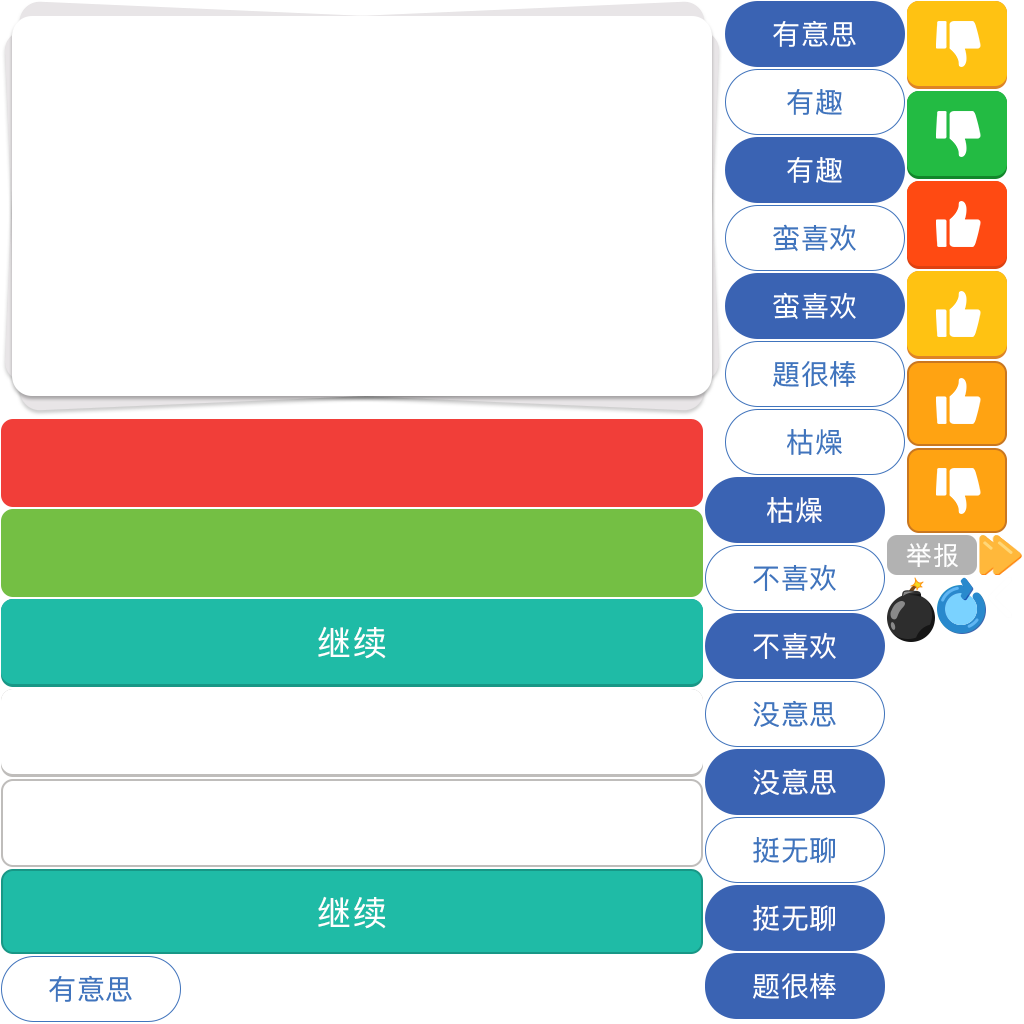
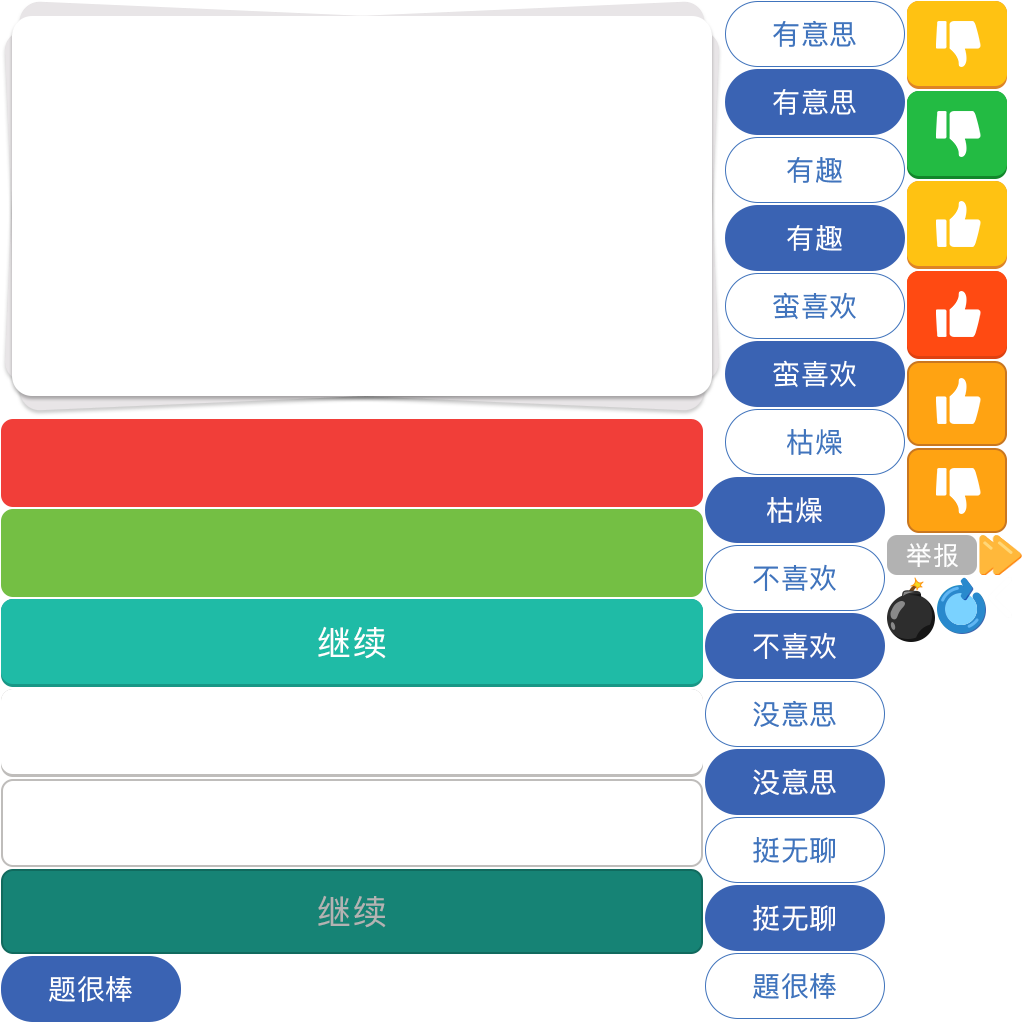
1807191336

Changed region(s): [[0.6875, 0.0, 1.0, 0.4062], [0.0, 0.8438, 0.6875, 1.0], [0.6875, 0.9062, 0.875, 1.0]]

diff --git a/js/main.min_9b712d65.js b/js/main.min_9b712d65.js
@@ -1,0 +1,2 @@
+var __reflect=this&&this.__reflect||function(e,t,n){e.__class__=t,n?n.push(t):n=[t],e.__types__=e.__types__?n.concat(e.__types__):n},__extends=this&&this.__extends||function(e,t){function n(){this.constructor=e}for(var o in t)t.hasOwnProperty(o)&&(e[o]=t[o]);n.prototype=t.prototype,e.prototype=new n},__awaiter=this&&this.__awaiter||function(e,t,n,o){return new(n||(n=Promise))(function(r,i){function s(e){try{u(o.next(e))}catch(t){i(t)}}function a(e){try{u(o["throw"](e))}catch(t){i(t)}}function u(e){e.done?r(e.value):new n(function(t){t(e.value)}).then(s,a)}u((o=o.apply(e,t||[])).next())})},__generator=this&&this.__generator||function(e,t){function n(e){return function(t){return o([e,t])}}function o(n){if(r)throw new TypeError("Generator is already executing.");for(;u;)try{if(r=1,i&&(s=i[2&n[0]?"return":n[0]?"throw":"next"])&&!(s=s.call(i,n[1])).done)return s;switch(i=0,s&&(n=[0,s.value]),n[0]){case 0:case 1:s=n;break;case 4:return u.label++,{value:n[1],done:!1};case 5:u.label++,i=n[1],n=[0];continue;case 7:n=u.ops.pop(),u.trys.pop();continue;default:if(s=u.trys,!(s=s.length>0&&s[s.length-1])&&(6===n[0]||2===n[0])){u=0;continue}if(3===n[0]&&(!s||n[1]>s[0]&&n[1]<s[3])){u.label=n[1];break}if(6===n[0]&&u.label<s[1]){u.label=s[1],s=n;break}if(s&&u.label<s[2]){u.label=s[2],u.ops.push(n);break}s[2]&&u.ops.pop(),u.trys.pop();continue}n=t.call(e,u)}catch(o){n=[6,o],i=0}finally{r=s=0}if(5&n[0])throw n[1];return{value:n[0]?n[1]:void 0,done:!0}}var r,i,s,a,u={label:0,sent:function(){if(1&s[0])throw s[1];return s[1]},trys:[],ops:[]};return a={next:n(0),"throw":n(1),"return":n(2)},"function"==typeof Symbol&&(a[Symbol.iterator]=function(){return this}),a},SQNode=function(e){function t(){return e.call(this)||this}return __extends(t,e),t}(eui.Component);__reflect(SQNode.prototype,"SQNode");var HttpActionData=function(){function e(e){this.body={},this.validate(e)}return e.prototype.validate=function(e){throw new Error("需要子类实现")},e}();__reflect(HttpActionData.prototype,"HttpActionData",["IHttpActionData"]);var SQApi=function(){function e(){}return e.prototype.fetchJson=function(e,t,n){var o=this,r=new egret.HttpRequest;r.responseType=egret.HttpResponseType.TEXT,r.open(e.url,egret.HttpMethod.GET),r.setRequestHeader("Accept","application/json"),r.setRequestHeader("Access-Control-Allow-Origin","*");for(var i=0,s=Object.keys(e.header);i<s.length;i++){var a=s[i];r.setRequestHeader(a,e.header[a])}r.send(),r.addEventListener(egret.Event.COMPLETE,function(e){var r=e.currentTarget.response;if(!r)return void n(new SQApiError({message:"HTTP GET response is null"}));var i=JSON.parse(r);i.ok?t(i.result):n(o.getResponseError(i))},this),r.addEventListener(egret.IOErrorEvent.IO_ERROR,function(e){n(new SQApiError({message:"无法连接到服务器"}))},this)},e.prototype.postReturnJson=function(e,t,n){var o=this,r=e.url+this.buildParams(e.parameters),i=new egret.HttpRequest;i.responseType=egret.HttpResponseType.TEXT,i.open(r,egret.HttpMethod.POST);for(var s=0,a=Object.keys(e.header);s<a.length;s++){var u=a[s];i.setRequestHeader(u,e.header[u])}if(i.addEventListener(egret.Event.COMPLETE,function(e){var r=e.currentTarget.response;if(!r)return void n(new SQApiError({message:"HTTP POST response is null"}));var i=JSON.parse(r);i.ok?t(i.result):n(o.getResponseError(i))},this),i.addEventListener(egret.IOErrorEvent.IO_ERROR,function(e){n(new SQApiError({message:"无法连接到服务器"}))},this),e.body){var c=this.buildBody(e.body);i.send(c)}else i.send()},e.prototype.getResponseError=function(e){if(e.errors){if(e.errors.length<=0)return new SQApiError({message:"服务器请求错误返回格式不对。"});var t=e.errors[0],n=t.message;return t.field&&(n=n+" ("+t.field+")"),new SQApiError({message:n,error_type:e.errors[0].error_type})}return new SQApiError({message:e.message,error_type:e.error_type})},e.prototype.buildParams=function(e){if(!e)return"";var t="?";for(var n in e)n&&(t=t+n+"="+e[n]+"&");return t=t.slice(0,-1)},e.prototype.buildBody=function(e){return JSON.stringify(e)},e}();__reflect(SQApi.prototype,"SQApi");var NoAuthorizedHeaderFactory=function(){function e(e){this.header={Accept:"application/json","Access-Control-Allow-Origin":"*","Content-Type":"application/json"}}return e.prototype.create=function(){return this.header},e}();__reflect(NoAuthorizedHeaderFactory.prototype,"NoAuthorizedHeaderFactory",["IHeaderFactory"]);var SQLayer=function(e){function t(){return e.call(this)||this}return __extends(t,e),t.prototype.onEnter=function(){for(var e=this.numChildren,n=0;e>n;n+=1){var o=this.getChildAt(n);o instanceof t&&o.onEnter()}},t.prototype.onExit=function(){for(var e=this.numChildren,n=0;e>n;n+=1){var o=this.getChildAt(n);o instanceof t&&o.onExit()}},t}(SQNode);__reflect(SQLayer.prototype,"SQLayer");var SQScene=function(e){function t(){return e.call(this)||this}return __extends(t,e),t.prototype.onEnter=function(){for(var e=this.numChildren,t=0;e>t;t+=1){var n=this.getChildAt(t);n instanceof SQLayer&&n.onEnter()}},t.prototype.onExit=function(){for(var e=this.numChildren,t=0;e>t;t+=1){var n=this.getChildAt(t);n instanceof SQLayer&&n.onExit()}},t}(SQNode);__reflect(SQScene.prototype,"SQScene");var approveTagDatas=[{name:"有趣",normal_image:"btn_good_1@2x_png",on_image:"btn_good_1_selected@2x_png"},{name:"有意思",normal_image:"btn_good_2@2x_png",on_image:"btn_good_2_selected@2x_png"},{name:"题很棒",normal_image:"btn_good_3@2x_png",on_image:"btn_good_3_selected@2x_png"},{name:"蛮喜欢",normal_image:"btn_good_4@2x_png",on_image:"btn_good_4_selected@2x_png"}],disapproveTagDatas=[{name:"挺无聊",normal_image:"btn_bad_1@2x_png",on_image:"btn_bad_1_selected@2x_png"},{name:"没意思",normal_image:"btn_bad_2@2x_png",on_image:"btn_bad_2_selected@2x_png"},{name:"不喜欢",normal_image:"btn_bad_3@2x_png",on_image:"btn_bad_3_selected@2x_png"},{name:"枯燥",normal_image:"btn_bad_4@2x_png",on_image:"btn_bad_4_selected@2x_png"}],QuizTagModel=function(){function e(){}return e.prototype.listApproveTags=function(){return this.approveTags=approveTagDatas.map(function(e){return new Tag(e)}),this.approveTags},e.prototype.listSelectedApproveTags=function(){return this.approveTags.filter(function(e){return e.selected?e:void 0})},e.prototype.listDisapproveTags=function(){return this.disapproveTags=disapproveTagDatas.map(function(e){return new Tag(e)}),this.disapproveTags},e.prototype.listSelectedDisapproveTags=function(){return this.disapproveTags.filter(function(e){return e.selected?e:void 0})},e}();__reflect(QuizTagModel.prototype,"QuizTagModel");var Tag=function(){function e(e){this.name=e.name,this.normalImage=e.normal_image,this.onImage=e.on_image,this.selected=!1}return e}();__reflect(Tag.prototype,"Tag");var SQEventCenter=function(e){function t(){return null!==e&&e.apply(this,arguments)||this}return __extends(t,e),t.sharedInstance=function(){return t.instance||(t.instance=new t),t.instance},t}(egret.EventDispatcher);__reflect(SQEventCenter.prototype,"SQEventCenter");var GameOverScene=function(e){function t(t){var n=e.call(this)||this;return n.skinName="GameOverSceneUI",n.model=t,n.continueButton.addEventListener(egret.TouchEvent.TOUCH_TAP,n.onPressContinueButton,n),n}return __extends(t,e),t.prototype.createChildren=function(){e.prototype.createChildren.call(this),this.setGameInformations()},t.prototype.setGameInformations=function(){this.answerCorrectInfo.setTitleText("答对题目"),this.answerCorrectInfo.setValueText(String(this.model.getAnswerCorrectAmount())),this.answerWrongInfo.setTitleText("答错题目"),this.answerWrongInfo.setValueText(String(this.model.getAnswerWrongAmount()))},t.prototype.onPressContinueButton=function(){this.goPlayingScene()},t.prototype.goPlayingScene=function(){var e=this,t=new SQLoadingLayer;t.show();var n=new QuizSceneModel;n.fetchQuestions(function(){t.hide(),SQSceneManager.sharedInstance().removeChildLayer(e),SQSceneManager.sharedInstance().replaceScene(new QuizScene(n))},function(e){t.hide()})},t}(SQScene);__reflect(GameOverScene.prototype,"GameOverScene");var GameOverSceneModel=function(){function e(e){this.answerCorrectAmount=e.answer_correct_amount,this.answerWrongAmount=e.answer_wrong_amount}return e.prototype.getAnswerCorrectAmount=function(){return this.answerCorrectAmount},e.prototype.getAnswerWrongAmount=function(){return this.answerWrongAmount},e}();__reflect(GameOverSceneModel.prototype,"GameOverSceneModel");var GameOverInfoItem=function(e){function t(){var t=e.call(this)||this;return t.skinName="GameOverInfoItemUI",t}return __extends(t,e),t.prototype.setTitleText=function(e){this.titleLabel.text=e},t.prototype.setValueText=function(e){this.valueLabel.text=e},t}(SQLayer);__reflect(GameOverInfoItem.prototype,"GameOverInfoItem");var AssetAdapter=function(){function e(){}return e.prototype.getAsset=function(e,t,n){function o(o){t.call(n,o,e)}if(RES.hasRes(e)){var r=RES.getRes(e);r?o(r):RES.getResAsync(e,o,this)}else RES.getResByUrl(e,o,this,RES.ResourceItem.TYPE_IMAGE)},e}();__reflect(AssetAdapter.prototype,"AssetAdapter",["eui.IAssetAdapter"]);var Main=function(e){function t(){var t=e.call(this)||this;return t.addEventListener(egret.Event.ADDED_TO_STAGE,t.onAddToStage,t),t}return __extends(t,e),t.prototype.onAddToStage=function(e){egret.lifecycle.addLifecycleListener(function(e){e.onUpdate=function(){}}),egret.lifecycle.onPause=function(){egret.ticker.pause()},egret.lifecycle.onResume=function(){egret.ticker.resume()};var t=new AssetAdapter;egret.registerImplementation("eui.IAssetAdapter",t),egret.registerImplementation("eui.IThemeAdapter",new ThemeAdapter),this.runGame()["catch"](function(e){console.log(e)})},t.prototype.runGame=function(){return __awaiter(this,void 0,void 0,function(){var e;return __generator(this,function(t){switch(t.label){case 0:return[4,this.loadPreloadResourceGroup()];case 1:return t.sent(),this.createLaunchGameScene(),SQSceneManager.sharedInstance().addRootStage(this),SQSceneManager.sharedInstance().pushScene(new LaunchGameScene),[4,platform.login()];case 2:return t.sent(),[4,platform.getUserInfo()];case 3:return e=t.sent(),console.log(e),[2]}})})},t.prototype.loadPreloadResourceGroup=function(){return __awaiter(this,void 0,void 0,function(){var e,t;return __generator(this,function(n){switch(n.label){case 0:return n.trys.push([0,4,,5]),e=new LoadingUI,this.stage.addChild(e),[4,RES.loadConfig("resource/default.res.json","resource/")];case 1:return n.sent(),[4,this.loadTheme()];case 2:return n.sent(),[4,RES.loadGroup("preload",0,e)];case 3:return n.sent(),this.stage.removeChild(e),[3,5];case 4:return t=n.sent(),console.error(t),[3,5];case 5:return[2]}})})},t.prototype.loadTheme=function(){var e=this;return new Promise(function(t,n){var o=new eui.Theme("resource/default.thm.json",e.stage);o.addEventListener(eui.UIEvent.COMPLETE,function(){t()},e)})},t.prototype.createLaunchGameScene=function(){var e=this.createBitmapByName("bg_tu@2x_jpg");this.addChild(e);var t=this.stage.stageWidth,n=this.stage.stageHeight;e.width=t,e.height=n},t.prototype.createBitmapByName=function(e){var t=new egret.Bitmap,n=RES.getRes(e);return t.texture=n,t},t}(egret.DisplayObjectContainer);__reflect(Main.prototype,"Main");var SQApiConfig=function(){function e(){}return e.Host="https://api-staging.shafayouxi.org",e.V1="v1",e}();__reflect(SQApiConfig.prototype,"SQApiConfig");var SQApiErrorType;!function(e){e[e.None=0]="None",e[e.UserNotFound=1]="UserNotFound"}(SQApiErrorType||(SQApiErrorType={}));var SQApiError=function(e){function t(t){var n=e.call(this)||this;return n.message=t.message,"user_not_found"===t.error_type?n.type=SQApiErrorType.UserNotFound:n.type=SQApiErrorType.None,n}return __extends(t,e),t}(Error);__reflect(SQApiError.prototype,"SQApiError");var HttpPost=function(e){function t(){return null!==e&&e.apply(this,arguments)||this}return __extends(t,e),t.prototype.execute=function(e,t,n){var o={url:e.url,header:e.headerFactory.create(),body:e.body};this.postReturnJson(o,function(e){t(e)},function(e){n(e)})},t}(SQApi);__reflect(HttpPost.prototype,"HttpPost",["IHttpAction"]);var AuthorizedHeaderFactory=function(e){function t(t){var n=e.call(this,t)||this;return t.access_token&&(n.header.Authorization="Bearer "+t.access_token),n}return __extends(t,e),t}(NoAuthorizedHeaderFactory);__reflect(AuthorizedHeaderFactory.prototype,"AuthorizedHeaderFactory");var DebugPlatform=function(){function e(){}return e.prototype.getUserInfo=function(){return __awaiter(this,void 0,void 0,function(){return __generator(this,function(e){return[2,{nickName:"username"}]})})},e.prototype.login=function(){return __awaiter(this,void 0,void 0,function(){return __generator(this,function(e){return[2]})})},e}();__reflect(DebugPlatform.prototype,"DebugPlatform",["Platform"]),window.platform||(window.platform=new DebugPlatform);var LaunchGameScene=function(e){function t(){var t=e.call(this)||this;return t.skinName="LaunchGameSceneUI",t}return __extends(t,e),t.prototype.createChildren=function(){e.prototype.createChildren.call(this),this.addLoadGroupEvent(),RES.loadGroup("answer")},t.prototype.addLoadGroupEvent=function(){RES.addEventListener(RES.ResourceEvent.GROUP_COMPLETE,this.onGroupLoadComplete,this),RES.addEventListener(RES.ResourceEvent.GROUP_LOAD_ERROR,this.onGroupLoadError,this),RES.addEventListener(RES.ResourceEvent.GROUP_PROGRESS,this.onGroupProgress,this),RES.addEventListener(RES.ResourceEvent.ITEM_LOAD_ERROR,this.onItemLoadError,this)},t.prototype.removeLoadGroupEvent=function(){RES.removeEventListener(RES.ResourceEvent.GROUP_COMPLETE,this.onGroupLoadComplete,this),RES.removeEventListener(RES.ResourceEvent.GROUP_LOAD_ERROR,this.onGroupLoadError,this),RES.removeEventListener(RES.ResourceEvent.GROUP_PROGRESS,this.onGroupProgress,this),RES.removeEventListener(RES.ResourceEvent.ITEM_LOAD_ERROR,this.onItemLoadError,this)},t.prototype.onGroupLoadComplete=function(e){this.removeLoadGroupEvent(),this.goQuizScene()},t.prototype.goQuizScene=function(){var e=this,t=new QuizSceneModel;this.descriptionLabel.text="正在请求数据...",t.fetchQuestions(function(){SQSceneManager.sharedInstance().replaceScene(new QuizScene(t))},function(){e.goQuizScene()})},t.prototype.onGroupLoadError=function(e){console.log("load resource error",e)},t.prototype.onGroupProgress=function(e){this.descriptionLabel.text="资源加载中..."+Math.floor(e.itemsLoaded/e.itemsTotal*100)+"%"},t.prototype.onItemLoadError=function(e){throw new Error(e.resItem.url+"加载失败")},t}(SQScene);__reflect(LaunchGameScene.prototype,"LaunchGameScene");var QuizScene=function(e){function t(t){var n=e.call(this)||this;return n.skinName="QuizSceneUI",n.model=t,n}return __extends(t,e),t.prototype.createChildren=function(){e.prototype.createChildren.call(this),this.showQuestion(this.model.getQuestionAtIndex(this.model.currentQuestionAmount)),this.bottomToolbar.setItems(this.model.listBottomToolbarItems()),this.setupCallbacks()},t.prototype.setupCallbacks=function(){this.navigationBar.pressLeftButtonHandler=this.quitGame.bind(this),this.dashboard.pressAnswerHandler=this.chooseAnswer.bind(this),this.quizFinishedLayer.pressApproveButtonHandler=this.approveQuiz.bind(this),this.quizFinishedLayer.pressDisapproveButtonHandler=this.disapproveQuiz.bind(this),this.quizFinishedLayer.postQuestionTagsHandler=this.postQuestionTags.bind(this),this.quizFinishedLayer.pressContinueHandler=this.next.bind(this),this.questionLayer.timesUpHandler=this.timesUp.bind(this)},t.prototype.fetchQuestions=function(){var e=this,t=new SQLoadingLayer;t.show(),this.model.fetchQuestions(function(n){t.hide(),e.showQuestion(e.model.getQuestionAtIndex(e.model.currentQuestionAmount))},function(e){t.hide()})},t.prototype.showQuestion=function(e){this.questionLayer.setCategory(e.category),this.questionLayer.setQuestionText(e.text),this.questionLayer.startQuizTimer(20),this.questionLayer.setProgressLabel(this.model.currentQuestionAmount+1+"/"+this.model.totalQuestionAmount),this.dashboard.setAnswers(e.answers),this.model.countQuestionById(e.id,function(){console.log("问题计数成功")},function(e){console.log("问题计数失败"+e.message)})},t.prototype.timesUp=function(){this.dashboard.disableAllButtons(),this.questionLayer.showAnswerTimesUpAnimation(),this.postAnswer("",100)},t.prototype.chooseAnswer=function(e){var t=this;this.questionLayer.stopQuizTimer(function(n){var o=new ButtonStateEvent(ButtonStateEvent.ANSWER_CORRECT);if(SQEventCenter.sharedInstance().dispatchEvent(o),t.model.setCurrentAnswer(e),e.isCorrect)t.questionLayer.showAnswerCorrectAnimation(),t.model.addAnswerCorrectAmount();else{var r=new ButtonStateEvent(ButtonStateEvent.ANSWER_WRONG);SQEventCenter.sharedInstance().dispatchEvent(r),t.questionLayer.showAnswerWrongAnimation(),t.model.addAnswerWrongAmount()}t.postAnswer(e.name,n)})},t.prototype.postAnswer=function(e,t){var n=this,o=this.model.getQuestionAtIndex(this.model.currentQuestionAmount),r={question_id:o.id,answer_text:e,duration_seconds:t};this.model.postAnswer(r,function(){n.showQuizFinishedLayer(o)},function(o){n.postAnswer(e,t),console.log("发送回答失败, 继续尝试")})},t.prototype.showQuizFinishedLayer=function(e){this.quizFinishedLayer.setQuestion(e),this.dashboardTweenGroup.play(0)},t.prototype.quitGame=function(){console.log("quitGame........")},t.prototype.approveQuiz=function(e){var t={action:"up",question_id:e.id,question_token:e.token};this.model.voteQuestionById(t,function(){},function(e){})},t.prototype.disapproveQuiz=function(e){var t={action:"down",question_id:e.id,question_token:e.token};this.model.voteQuestionById(t,function(){},function(e){})},t.prototype.postQuestionTags=function(e,t){var n={question_id:e.id,tag:t[0].name};this.model.postQuestionTags(n,function(e){console.log("postQuestionTags success #####",e)},function(e){console.log("postQuestionTags failed #####",e.message)})},t.prototype.next=function(){if(!this.model.getCurrentAnswer())return void SQSceneManager.sharedInstance().addChildLayer(new GameOverScene(this.createGameOverModel()));if(!this.model.getCurrentAnswer().isCorrect)return void SQSceneManager.sharedInstance().addChildLayer(new GameOverScene(this.createGameOverModel()));this.model.currentQuestionAmount+=1;var e=new ButtonStateEvent(ButtonStateEvent.ANSWER_RESET);return SQEventCenter.sharedInstance().dispatchEvent(e),this.dashboardGroup.x=0,this.model.currentQuestionAmount===this.model.totalQuestionAmount?(this.model.reset(),void this.fetchQuestions()):void this.showQuestion(this.model.getQuestionAtIndex(this.model.currentQuestionAmount))},t.prototype.createGameOverModel=function(){var e={answer_correct_amount:this.model.getAnswerCorrectAmount(),answer_wrong_amount:this.model.getAnswerWrongAmount()};return new GameOverSceneModel(e)},t}(SQScene);__reflect(QuizScene.prototype,"QuizScene");var Answer=function(){function e(e){this.name=e.name,this.isCorrect=e.correct,this.index=e.index}return e}();__reflect(Answer.prototype,"Answer");var Question=function(){function e(e){this.category=e.category,this.id=e.id,this.language=e.language,this.text=e.text,this.token=e.question_token,this.answers=this.createAnswers(e.options)}return e.prototype.createAnswers=function(e){return e.map(function(e,t){var n=e;return n.index=t,new Answer(n)})},e}();__reflect(Question.prototype,"Question");var QuizSceneModel=function(){function e(){this.currentQuestionAmount=0,this.httpPost=new HttpPost,this.answerCorrectAmount=0,this.answerWrongAmount=0}return e.prototype.setCurrentAnswer=function(e){this.currentAnswer=e},e.prototype.getCurrentAnswer=function(){return this.currentAnswer},e.prototype.addAnswerCorrectAmount=function(){this.answerCorrectAmount+=1},e.prototype.getAnswerCorrectAmount=function(){return this.answerCorrectAmount},e.prototype.addAnswerWrongAmount=function(){this.answerWrongAmount+=1},e.prototype.getAnswerWrongAmount=function(){return this.answerWrongAmount},e.prototype.reset=function(){this.currentQuestionAmount=0,this.questions=[]},e.prototype.getQuestionAtIndex=function(e){return this.questions.length<=e?void 0:this.questions[e]},e.prototype.fetchQuestions=function(e,t){var n=this,o=new FetchQuestionsData({access_token:UserModel.sharedInstance().attribute.token,user_id:UserModel.sharedInstance().attribute.id});this.httpPost.execute(o,function(t){n.questions=n.createQuestions(t.questions),n.totalQuestionAmount=n.questions.length,e(n.questions)},function(e){t(e)})},e.prototype.postAnswer=function(e,t,n){var o=new PostAnswerData({user_id:UserModel.sharedInstance().attribute.id,quiz_token:UserModel.sharedInstance().attribute.quizToken,question_id:e.question_id,duration_seconds:e.duration_seconds,answer:e.answer_text});this.httpPost.execute(o,function(e){t()},function(e){n(e)})},e.prototype.countQuestionById=function(e,t,n){var o=new CountQuestionData({user_id:UserModel.sharedInstance().attribute.id,question_id:e});this.httpPost.execute(o,function(e){t()},function(e){n(e)})},e.prototype.voteQuestionById=function(e,t,n){var o=new VoteQuestionData({user_id:UserModel.sharedInstance().attribute.id,token:e.question_token,question_id:e.question_id,action:e.action});this.httpPost.execute(o,function(e){t(e)},function(e){n(e)})},e.prototype.postQuestionTags=function(e,t,n){var o=new PostTagData({user_id:UserModel.sharedInstance().attribute.id,question_id:e.question_id,tag:e.tag});this.httpPost.execute(o,function(e){t(e)},function(e){n(e)})},e.prototype.listBottomToolbarItems=function(){return[{icon:"img_bomb@2x_png",title:"炸弹",description:"去掉两个错误答案"},{icon:"img_opportunity@2x_png",title:"机会",description:"多一次机会"},{icon:"img_jump_over@2x_png",title:"跳过",description:"跳过这一题"}]},e.prototype.createQuestions=function(e){return e.map(function(e){return new Question(e)})},e}();__reflect(QuizSceneModel.prototype,"QuizSceneModel");var LoadingUI=function(e){function t(){var t=e.call(this)||this;return t.createView(),t}return __extends(t,e),t.prototype.createView=function(){this.textField=new egret.TextField,this.addChild(this.textField),this.textField.y=300,this.textField.width=480,this.textField.height=100,this.textField.textAlign="center"},t.prototype.onProgress=function(e,t){this.textField.text="Loading..."+e+"/"+t},t}(egret.Sprite);__reflect(LoadingUI.prototype,"LoadingUI",["RES.PromiseTaskReporter"]);var CountQuestionData=function(e){function t(t){var n=e.call(this,t)||this;return n.url=SQApiConfig.Host+"/"+SQApiConfig.V1+"/count/"+t.question_id,n.headerFactory=new NoAuthorizedHeaderFactory({}),n.body.user_id=t.user_id,n}return __extends(t,e),t.prototype.validate=function(e){return this.isLegal=!1,e.user_id?void(this.isLegal=!0):void(this.validateMessage="没有找到用户id")},t}(HttpActionData);__reflect(CountQuestionData.prototype,"CountQuestionData");var FetchQuestionsData=function(e){function t(t){var n=e.call(this,t)||this;return n.url=SQApiConfig.Host+"/"+SQApiConfig.V1+"/quiz/game/marathon",n.headerFactory=new AuthorizedHeaderFactory({access_token:t.access_token}),n.body.user_id=t.user_id,n}return __extends(t,e),t.prototype.validate=function(e){return this.isLegal=!1,e.access_token?e.user_id?void(this.isLegal=!0):void(this.validateMessage="请提供用户id"):void(this.validateMessage="请传入access_token")},t}(HttpActionData);__reflect(FetchQuestionsData.prototype,"FetchQuestionsData");var PostAnswerData=function(e){function t(t){var n=e.call(this,t)||this;return n.url=SQApiConfig.Host+"/"+SQApiConfig.V1+"/quiz/answer",n.headerFactory=new AuthorizedHeaderFactory({access_token:t.access_token}),n.body.user_id=t.user_id,n.body.question_id=t.question_id,n.body.quiz_token=t.quiz_token,n.body.duration_seconds=t.duration_seconds,n.body.answer=t.answer,n}return __extends(t,e),t.prototype.validate=function(e){this.isLegal=!0},t}(HttpActionData);__reflect(PostAnswerData.prototype,"PostAnswerData");var PostTagData=function(e){function t(t){var n=e.call(this,t)||this;return n.url=SQApiConfig.Host+"/"+SQApiConfig.V1+"/tag/"+t.question_id,n.headerFactory=new AuthorizedHeaderFactory({access_token:t.access_token}),n.body.user_id=t.user_id,n.body.tag=t.tag,n}return __extends(t,e),t.prototype.validate=function(e){return this.isLegal=!1,e.user_id?e.tag?void(this.isLegal=!0):void(this.validateMessage="请提供tag"):void(this.validateMessage="请提供用户的id")},t}(HttpActionData);__reflect(PostTagData.prototype,"PostTagData");var VoteQuestionData=function(e){function t(t){var n=e.call(this,t)||this;return n.url=SQApiConfig.Host+"/"+SQApiConfig.V1+"/vote/"+t.question_id,n.headerFactory=new NoAuthorizedHeaderFactory({}),n.body.user_id=t.user_id,n.body.action=t.action,n.body.token=t.token,console.log(t),n}return __extends(t,e),t.prototype.validate=function(e){return this.isLegal=!0,e.user_id?e.action?e.token?e.question_id?void(this.validateMessage="请提供问题id"):void(this.isLegal=!0):void(this.validateMessage="请提供有效问题token"):void(this.validateMessage="没有提供投票行为"):void(this.validateMessage="没有可用用户id")},t}(HttpActionData);__reflect(VoteQuestionData.prototype,"VoteQuestionData");var QuestionLayer=function(e){function t(){var t=e.call(this)||this;return t.skinName="QuestionLayerUI",t}return __extends(t,e),t.prototype.showAnswerTimesUpAnimation=function(){var e=this,t=AnimationFactory.create("answer_times_up_animation_json","answer_times_up_animation_png");this.animationContainer.addChild(t),this.animationContainer.layout=this.createAnimationContainerLayout(),t.gotoAndPlay("play",0),t.addEventListener(egret.MovieClipEvent.COMPLETE,function(){e.animationContainer.removeChild(t)},this)},t.prototype.showAnswerCorrectAnimation=function(){var e=this,t=AnimationFactory.create("answer_correct_animation_json","answer_correct_animation_png");this.animationContainer.addChild(t),this.animationContainer.layout=this.createAnimationContainerLayout(),t.gotoAndPlay("play",0),t.addEventListener(egret.MovieClipEvent.COMPLETE,function(){e.animationContainer.removeChild(t)},this)},t.prototype.showAnswerWrongAnimation=function(){var e=this,t=AnimationFactory.create("answer_wrong_animation_json","answer_wrong_animation_png");this.animationContainer.addChild(t),this.animationContainer.layout=this.createAnimationContainerLayout(),t.gotoAndPlay("play",0),t.addEventListener(egret.MovieClipEvent.COMPLETE,function(){e.animationContainer.removeChild(t)},this)},t.prototype.createAnimationContainerLayout=function(){var e=new eui.HorizontalLayout;return e.gap=0,e.horizontalAlign=egret.HorizontalAlign.CENTER,e.verticalAlign=egret.VerticalAlign.MIDDLE,e},t.prototype.setCategory=function(e){this.categoryLabel.text=e},t.prototype.setProgressLabel=function(e){this.progressLabel.text=e},t.prototype.startQuizTimer=function(e){this.timer||(this.initialTime=e,this.remainTime=e,this.timer=new egret.Timer(1e3,e),this.timer.addEventListener(egret.TimerEvent.TIMER,this.timerCalled,this),this.timer.addEventListener(egret.TimerEvent.TIMER_COMPLETE,this.timerCompleted,this),this.timeLabel.text=e+'"',this.timer.start())},t.prototype.stopQuizTimer=function(e){e(this.initialTime-this.remainTime),this.stopTimer()},t.prototype.setQuestionText=function(e){this.questionLabel.text=e},t.prototype.createChildren=function(){e.prototype.createChildren.call(this),this.animationContainer=new eui.Group,this.animationContainer.width=this.width,this.animationContainer.height=this.height,this.animationContainer.y=-140,this.addChild(this.animationContainer)},t.prototype.stopTimer=function(){this.timer&&(this.timer.stop(),this.timer.removeEventListener(egret.TimerEvent.TIMER,this.timerCalled,this),this.timer.removeEventListener(egret.TimerEvent.TIMER_COMPLETE,this.timerCompleted,this),this.timer=void 0)},t.prototype.timerCalled=function(){this.remainTime-=1,this.timeLabel.text=this.remainTime+'"'},t.prototype.timerCompleted=function(){this.stopTimer(),this.timesUpHandler()},t}(SQLayer);__reflect(QuestionLayer.prototype,"QuestionLayer");var QuizDashboard=function(e){function t(){var t=e.call(this)||this;return t.skinName="QuizDashboardUI",t.answerOne.addEventListener(egret.TouchEvent.TOUCH_TAP,t.onPressAnswerOne,t),t.answerTwo.addEventListener(egret.TouchEvent.TOUCH_TAP,t.onPressAnswerTwo,t),t.answerThree.addEventListener(egret.TouchEvent.TOUCH_TAP,t.onPressAnswerThree,t),t.answerFour.addEventListener(egret.TouchEvent.TOUCH_TAP,t.onPressAnswerFour,t),t}return __extends(t,e),t.prototype.setAnswers=function(e){this.answers=e,this.enableAllButtons(),this.answerOne.setAnswer(e[0]),this.answerTwo.setAnswer(e[1]),this.answerThree.setAnswer(e[2]),this.answerFour.setAnswer(e[3])},t.prototype.disableAllButtons=function(){this.answerOne.enabled=!1,this.answerTwo.enabled=!1,this.answerThree.enabled=!1,this.answerFour.enabled=!1},t.prototype.onPressAnswerOne=function(){this.disableAllButtons(),this.pressAnswerHandler&&this.pressAnswerHandler(this.answers[0])},t.prototype.onPressAnswerTwo=function(){this.disableAllButtons(),this.pressAnswerHandler&&this.pressAnswerHandler(this.answers[1])},t.prototype.onPressAnswerThree=function(){this.disableAllButtons(),this.pressAnswerHandler&&this.pressAnswerHandler(this.answers[2])},t.prototype.onPressAnswerFour=function(){this.disableAllButtons(),this.pressAnswerHandler&&this.pressAnswerHandler(this.answers[3])},t.prototype.enableAllButtons=function(){this.answerOne.enabled=!0,this.answerTwo.enabled=!0,this.answerThree.enabled=!0,this.answerFour.enabled=!0},t}(SQLayer);__reflect(QuizDashboard.prototype,"QuizDashboard");var QuizDashboardButton=function(e){function t(){var t=e.call(this)||this;return t.skinName="QuizDashboardButtonUI",t.addEventListener(egret.TouchEvent.TOUCH_BEGIN,t.onTapBegin,t),t.addEventListener(egret.TouchEvent.TOUCH_RELEASE_OUTSIDE,t.onTapReleaseOutside,t),t.addEventListener(egret.TouchEvent.TOUCH_END,t.onTappEnd,t),t.addEventListener(egret.TouchEvent.TOUCH_TAP,t.onTapped,t),SQEventCenter.sharedInstance().addEventListener(ButtonStateEvent.ANSWER_RESET,t.reset,t),t}return __extends(t,e),t.prototype.setAnswer=function(e){this.answer=e,this.setTitle(e.name),SQEventCenter.sharedInstance().removeEventListener(ButtonStateEvent.ANSWER_CORRECT,this.showCorrectState,this),SQEventCenter.sharedInstance().addEventListener(ButtonStateEvent.ANSWER_CORRECT,this.showCorrectState,this)},t.prototype.showCorrectState=function(){this.answer.isCorrect&&(this.currentState="correct")},t.prototype.showWrongState=function(){this.currentState="wrong"},t.prototype.reset=function(){this.currentState="up",SQEventCenter.sharedInstance().removeEventListener(ButtonStateEvent.ANSWER_WRONG,this.showWrongState,this)},t.prototype.setTitle=function(e){this.titleLabel.text=e},t.prototype.onTapped=function(){SQEventCenter.sharedInstance().addEventListener(ButtonStateEvent.ANSWER_WRONG,this.showWrongState,this)},t.prototype.onTapBegin=function(){this.titleLabel.visible=!1},t.prototype.onTapReleaseOutside=function(){this.titleLabel.visible=!0},t.prototype.onTappEnd=function(){this.titleLabel.visible=!0},t}(eui.Button);__reflect(QuizDashboardButton.prototype,"QuizDashboardButton");var QuizFinishedLayer=function(e){function t(){var t=e.call(this)||this;return t.skinName="QuizFinishedLayerUI",t.approveButton.addEventListener(egret.Event.CHANGE,t.onApproveButtonChanged,t),t.disapproveButton.addEventListener(egret.Event.CHANGE,t.onDisapproveButtonChanged,t),t.continueButton.addEventListener(egret.TouchEvent.TOUCH_TAP,t.onPressContinueButton,t),t.tagModel=new QuizTagModel,t}return __extends(t,e),t.prototype.onEnter=function(){e.prototype.onEnter.call(this),SQEventCenter.sharedInstance().addEventListener(ListItemEvent.ITEM_TAPPED,this.onTagItemTapped,this),console.log("QuizFinishedLayer onEnter")},t.prototype.onExit=function(){e.prototype.onExit.call(this),SQEventCenter.sharedInstance().removeEventListener(ListItemEvent.ITEM_TAPPED,this.onTagItemTapped,this),console.log("QuizFinishedLayer onExit ######")},t.prototype.setQuestion=function(e){this.question=e},t.prototype.createChildren=function(){e.prototype.createChildren.call(this),this.tagList.itemRenderer=QuizTagItem;new eui.RadioButton},t.prototype.onApproveButtonChanged=function(e){this.showApproveTags(this.approveButton.selected),this.approveButton.selected&&this.pressApproveButtonHandler(this.question),this.disapproveButton.selected=!1},t.prototype.showApproveTags=function(e){this.tagList.dataProvider=new eui.ArrayCollection(e?this.tagModel.listApproveTags():[])},t.prototype.onDisapproveButtonChanged=function(e){this.showDisapproveTags(this.disapproveButton.selected),this.approveButton.selected=!1
+},t.prototype.showDisapproveTags=function(e){this.tagList.dataProvider=new eui.ArrayCollection(e?this.tagModel.listDisapproveTags():[])},t.prototype.onPressContinueButton=function(){this.approveButton.selected?(this.pressApproveButtonHandler(this.question),this.postQuestionTagsHandler(this.question,this.tagModel.listSelectedApproveTags())):this.disapproveButton.selected&&(this.pressDisapproveButtonHandler(this.question),this.postQuestionTagsHandler(this.question,this.tagModel.listSelectedDisapproveTags())),this.reset(),this.pressContinueHandler&&this.pressContinueHandler()},t.prototype.onTagItemTapped=function(e){console.log(e.tag)},t.prototype.reset=function(){this.approveButton.selected=!1,this.showApproveTags(!1),this.disapproveButton.selected=!1,this.showDisapproveTags(!1)},t}(SQLayer);__reflect(QuizFinishedLayer.prototype,"QuizFinishedLayer");var QuizSceneBottomToolbar=function(e){function t(){var t=e.call(this)||this;return t.skinName="QuizSceneBottomToolbarUI",t.bombButton.addEventListener(egret.TouchEvent.TOUCH_TAP,t.onPressBombButton,t),t.chanceButton.addEventListener(egret.TouchEvent.TOUCH_TAP,t.onPressChanceButton,t),t.skipButton.addEventListener(egret.TouchEvent.TOUCH_TAP,t.onPressSkipButton,t),t}return __extends(t,e),t.prototype.setItems=function(e){if(3===e.length){var t=e[0];this.bombButton.setIcon(t.icon),this.bombButton.setTitle(t.title),this.bombButton.setDescription(t.description);var n=e[1];this.chanceButton.setIcon(n.icon),this.chanceButton.setTitle(n.title),this.chanceButton.setDescription(n.description);var o=e[2];this.skipButton.setIcon(o.icon),this.skipButton.setTitle(o.title),this.skipButton.setDescription(o.description)}},t.prototype.onPressBombButton=function(){},t.prototype.onPressChanceButton=function(){},t.prototype.onPressSkipButton=function(){},t}(SQLayer);__reflect(QuizSceneBottomToolbar.prototype,"QuizSceneBottomToolbar");var QuizSceneBottomToolbarItem=function(e){function t(){var t=e.call(this)||this;return t.skinName="QuizSceneBottomToolbarItemUI",t}return __extends(t,e),t.prototype.setIcon=function(e){this.icon.source=e},t.prototype.setTitle=function(e){this.titleLabel.text=e},t.prototype.setDescription=function(e){this.descriptionLabel.text=e},t}(SQLayer);__reflect(QuizSceneBottomToolbarItem.prototype,"QuizSceneBottomToolbarItem");var QuizTagItem=function(e){function t(){var t=e.call(this)||this;return t.skinName="QuizTagItemUI",t.addEventListener(egret.TouchEvent.TOUCH_TAP,t.onTapped,t),t}return __extends(t,e),t.prototype.dataChanged=function(){this.image.source=this.data.normalImage},t.prototype.onTapped=function(){if(this.data.selected=!this.data.selected,this.data.selected){this.image.source=this.data.onImage;var e=new ListItemEvent(ListItemEvent.ITEM_TAPPED);e.tag=this.data,SQEventCenter.sharedInstance().dispatchEvent(e)}else this.image.source=this.data.normalImage},t}(eui.ItemRenderer);__reflect(QuizTagItem.prototype,"QuizTagItem");var UserAttribute=function(){function e(e){this.id="6301af78-a2d5-4f93-b6e2-4e54e537ec9b",this.token="503dc3c3-cd84-4b10-ab97-c4ae664808f3",this.quizToken="cb725ad6-9e98-48f1-a20a-db95b4c2ac49"}return e}();__reflect(UserAttribute.prototype,"UserAttribute",["IAttribute"]);var UserModel=function(){function e(){this.attribute=new UserAttribute({})}return e.sharedInstance=function(){return e.instance||(e.instance=new e),e.instance},e}();__reflect(UserModel.prototype,"UserModel");var AnimationFactory=function(){function e(){}return e.create=function(e,t){var n=RES.getRes(e),o=RES.getRes(t),r=new egret.MovieClipDataFactory(n,o);return new egret.MovieClip(r.generateMovieClipData("animation"))},e}();__reflect(AnimationFactory.prototype,"AnimationFactory");var ThemeAdapter=function(){function e(){}return e.prototype.getTheme=function(e,t,n,o){function r(e){t.call(o,e)}function i(t){t.resItem.url==e&&(RES.removeEventListener(RES.ResourceEvent.ITEM_LOAD_ERROR,i,null),n.call(o))}var s=this;"undefined"!=typeof generateEUI?egret.callLater(function(){t.call(o,generateEUI)},this):"undefined"!=typeof generateEUI2?RES.getResByUrl("resource/gameEui.json",function(e,n){window.JSONParseClass.setData(e),egret.callLater(function(){t.call(o,generateEUI2)},s)},this,RES.ResourceItem.TYPE_JSON):(RES.addEventListener(RES.ResourceEvent.ITEM_LOAD_ERROR,i,null),RES.getResByUrl(e,r,this,RES.ResourceItem.TYPE_TEXT))},e}();__reflect(ThemeAdapter.prototype,"ThemeAdapter",["eui.IThemeAdapter"]);var ButtonStateEvent=function(e){function t(t,n,o){return void 0===n&&(n=!1),void 0===o&&(o=!1),e.call(this,t,n,o)||this}return __extends(t,e),t.ANSWER_CORRECT="event.button.state.answer.correct",t.ANSWER_WRONG="event.button.state.answer.wrong",t.ANSWER_RESET="event.button.state.answer.reset",t}(egret.Event);__reflect(ButtonStateEvent.prototype,"ButtonStateEvent");var SQPopupLayer=function(e){function t(){return e.call(this)||this}return __extends(t,e),t}(SQLayer);__reflect(SQPopupLayer.prototype,"SQPopupLayer");var ListItemEvent=function(e){function t(t,n,o){return void 0===n&&(n=!1),void 0===o&&(o=!1),e.call(this,t,n,o)||this}return __extends(t,e),t.ITEM_TAPPED="list.item.tapped.event",t}(egret.Event);__reflect(ListItemEvent.prototype,"ListItemEvent");var SQSceneManager=function(e){function t(){var t=e.call(this)||this;return t.sceneStack=new eui.ViewStack,t.scenes=[],t}return __extends(t,e),t.sharedInstance=function(){return t.instance||(t.instance=new t),t.instance},t.prototype.addRootStage=function(e){this.rootStage=e,this.rootStage.addChild(this.sceneStack)},t.prototype.addChildLayer=function(e){if(!e)throw new Error("无法添加不存在的layer");this.rootStage.addChild(e),e.onEnter()},t.prototype.removeChildLayer=function(e){if(!e)throw new Error("无法移出不存在的scene");e.parent&&(e.onExit(),this.rootStage.removeChild(e),e=void 0)},t.prototype.pushScene=function(e){if(!e)throw new Error("你不能push一个不存在的scene");this.sceneStack.addChild(e),e.onEnter(),this.scenes.push(e),this.sceneStack.selectedIndex=this.sceneStack.length-1},t.prototype.popScene=function(){if(1<=this.scenes.length){var e=this.scenes.pop();e.onExit();var t=this.sceneStack.removeChild(e);this.sceneStack.selectedIndex=this.sceneStack.length-1,this.sceneStack.selectedIndex<0&&(this.sceneStack.selectedIndex=0),t=void 0}},t.prototype.replaceScene=function(e){if(!e)throw new Error("你不能replace一个不存在的scene");this.popScene(),this.pushScene(e)},t.instance=void 0,t}(egret.DisplayObjectContainer);__reflect(SQSceneManager.prototype,"SQSceneManager");var NavigationBar=function(e){function t(){var t=e.call(this)||this;return t.skinName="NavigationBarUI",t.leftButton.addEventListener(egret.TouchEvent.TOUCH_TAP,t.onPressLeftButton,t),t}return __extends(t,e),t.prototype.onPressLeftButton=function(){this.pressLeftButtonHandler&&this.pressLeftButtonHandler()},t}(SQLayer);__reflect(NavigationBar.prototype,"NavigationBar");var PureTextButton=function(e){function t(){var t=e.call(this)||this;return t.skinName="PureTextButtonUI",t}return __extends(t,e),t}(SQLayer);__reflect(PureTextButton.prototype,"PureTextButton");var SQLoadingLayer=function(e){function t(){var t=e.call(this)||this;t.skinName="LoadingLayerUI";var n=RES.getRes("loading_animation_json"),o=RES.getRes("loading_animation_png"),r=new egret.MovieClipDataFactory(n,o);return t.loadingAnimation=new egret.MovieClip(r.generateMovieClipData("loading_animation")),t.addChild(t.loadingAnimation),t.loadingAnimation.x=(t.width-t.loadingAnimation.width)/2,t.loadingAnimation.y=(t.height-t.loadingAnimation.height)/2,t.loadingAnimation.addEventListener(egret.MovieClipEvent.COMPLETE,function(){t.loadingAnimation.gotoAndPlay("play",0)},t),t}return __extends(t,e),t.prototype.show=function(){this.loadingAnimation.gotoAndPlay("play",0),SQSceneManager.sharedInstance().addChildLayer(this)},t.prototype.hide=function(){this.loadingAnimation.gotoAndStop(0),this.removeChild(this.loadingAnimation),this.loadingAnimation=void 0,SQSceneManager.sharedInstance().removeChildLayer(this)},t}(SQLayer);__reflect(SQLoadingLayer.prototype,"SQLoadingLayer");var TransparentLayer=function(e){function t(){var t=e.call(this)||this;return t.skinName="TransparentLayerUI",t}return __extends(t,e),t}(SQLayer);__reflect(TransparentLayer.prototype,"TransparentLayer");
